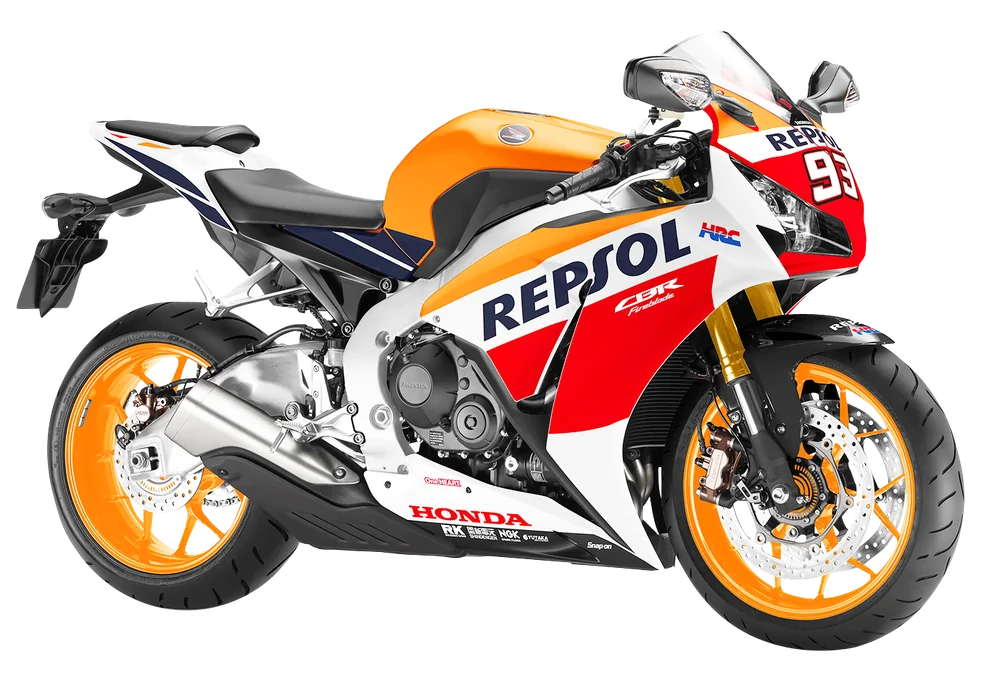
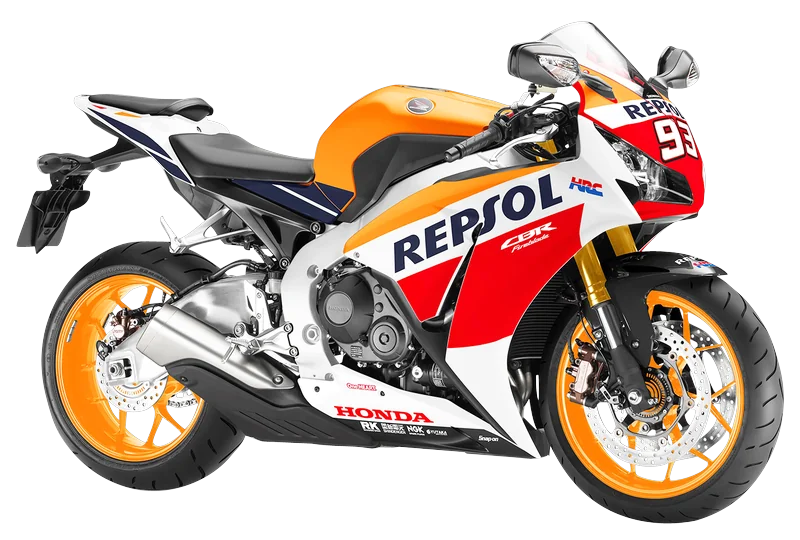
Update ratios

diff --git a/src/Reusable/SplitContentSwitcher.css b/src/Reusable/SplitContentSwitcher.css
@@ -22,7 +22,7 @@
   display: block;
   width: 100%;
   max-width: 500px;
-  aspect-ratio: 4 / 3;
+  aspect-ratio: 800 / 540; /* matches the motorcycle image canvas */
   margin: 0 auto;
   object-fit: contain;
   transition: transform 0.3s ease;
